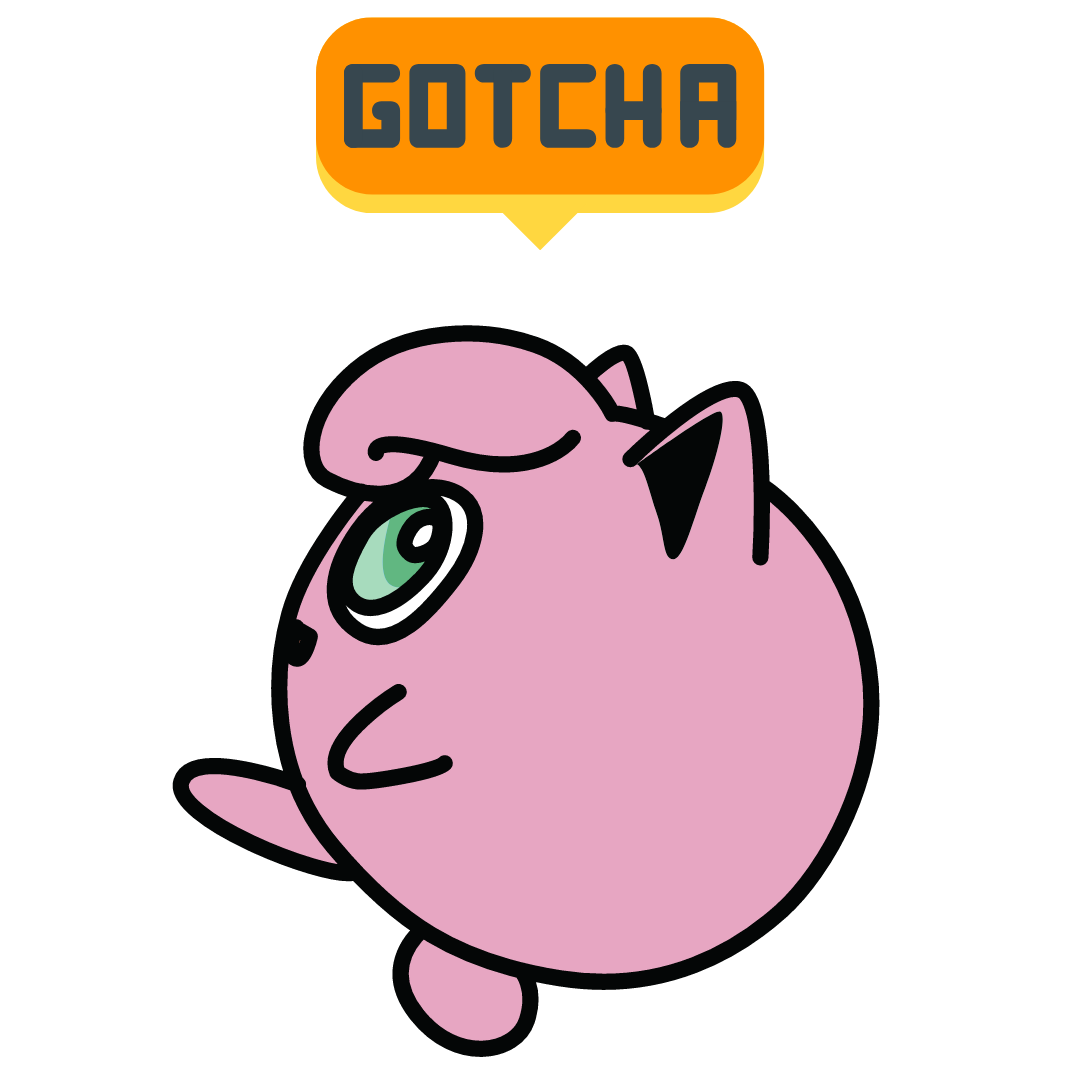
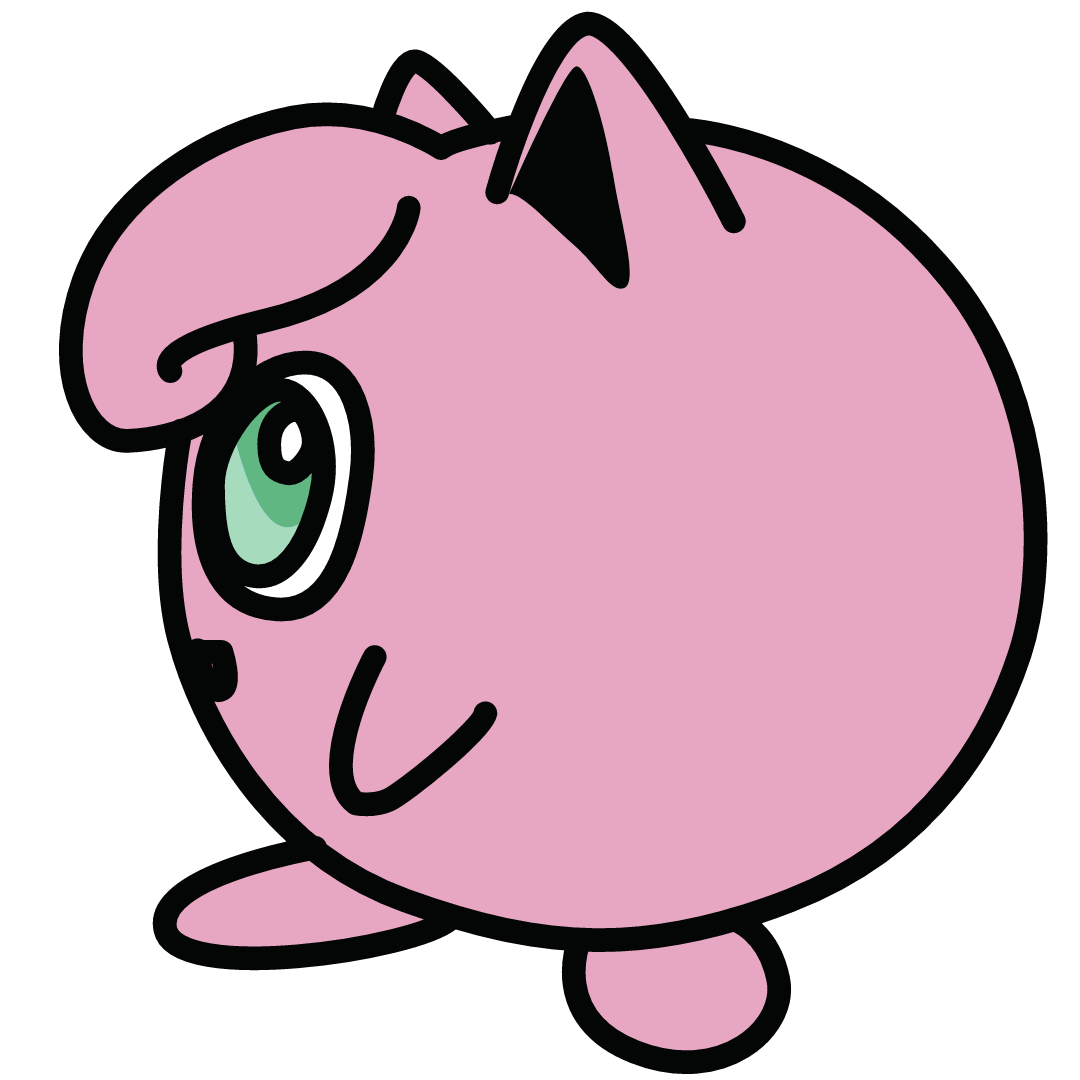
Criada a pagina 404 para usabilidade do usuario

diff --git a/src/pages/Custom404.jsx b/src/pages/Custom404.jsx
@@ -1,0 +1,38 @@
+/* É importante desabilitar essas configurações para o uso do Tailwind */
+/* eslint-disable react/jsx-max-depth */
+/* eslint-disable max-len */
+import React from 'react';
+import { MdCatchingPokemon } from 'react-icons/md';
+import { BsArrowRight } from 'react-icons/bs';
+import * as S from '../styles/404CSS';
+
+export default function Custom404() {
+  return (
+    <S.Main>
+      <S.Container>
+        <S.Images>
+          <S.Img1 src="/gotcha.png" alt="Gotcha" />
+          <S.Img2 src="/404.png" alt="Não encontrado" />
+        </S.Images>
+        <S.Text>
+          <S.Title>
+            <p>4</p>
+            <MdCatchingPokemon />
+            <p>4</p>
+          </S.Title>
+          <S.Descrip1>
+            Oops...Pokemon não encontrado.
+          </S.Descrip1>
+          <S.Descrip2>
+            Você deve ter digitado o endereço errado ou a página foi deslocada.
+          </S.Descrip2>
+          <S.LinkHome to="/">
+            <p><b>Ir para Home</b></p>
+            <BsArrowRight />
+          </S.LinkHome>
+        </S.Text>
+      </S.Container>
+    </S.Main>
+
+  );
+}

diff --git a/src/styles/404CSS.js b/src/styles/404CSS.js
@@ -1,0 +1,73 @@
+import { Link } from "react-router-dom";
+import tw from "tailwind-styled-components"
+
+export const Main = tw.div`
+  flex
+  items-center
+  min-h-screen
+  text-white
+`;
+
+export const Container = tw.div`
+  container
+  flex
+  items-center
+  p-4
+  mx-auto
+`;
+
+export const Images = tw.div`
+  flex
+  flex-col
+  items-center
+  w-4/5
+  p-4
+  md:w-6/12
+`;
+
+export const Img1 = tw.img`
+  w-1/2
+  mt-10
+`;
+
+export const Img2 = tw.img`
+  w-2/3
+  mt-10
+  animate-spin-slow
+`;
+
+export const Text = tw.div`
+  w-full
+  p-16
+  text-center
+  text-gray-700
+  md:w-7/12
+  md:text-left
+`;
+
+export const Title = tw.p`
+  flex
+  mb-10
+  text-6xl
+  font-medium 
+`;
+
+export const Descrip1 = tw.div`
+  mb-4
+  text-xl
+  font-medium
+  md:text-3xl
+`;
+
+export const Descrip2 = tw.div`
+  mb-8
+  text-lg
+`;
+
+export const LinkHome = tw(Link)`
+  flex
+  items-center
+  space-x-1
+  text-lg
+  text-blue-color
+`;

diff --git a/src/App.js b/src/App.js
@@ -19,6 +19,7 @@ export default function App() {
             <Route path="/register" element={ <P.Register /> } />
             <Route path="/profile" element={ <P.Profile /> } />
             <Route path="/cart" element={ <P.ShoppingCart /> } />
+            <Route path="*" element={ <P.Custom404 /> } />
           </Routes>
         </BrowserRouter>
       </PersistGate>

diff --git a/src/pages/index.js b/src/pages/index.js
@@ -4,5 +4,6 @@ import Profile from './Profile';
 import ShoppingCart from './ShoppingCart';
 import ChangePassword from './ChangePassword';
 import Register from './Register';
+import Custom404 from './Custom404';
 
-export { Home, Login, Profile, ShoppingCart, ChangePassword, Register };
+export { Home, Login, Profile, ShoppingCart, Custom404, ChangePassword, Register };

diff --git a/tailwind.config.js b/tailwind.config.js
@@ -3,7 +3,11 @@ module.exports = {
     './src/**/*.{js,jsx,ts,tsx}',
   ],
   theme: {
-    extend: {},
+    extend: {
+      animation: {
+        'spin-slow': 'spin 20s linear infinite',
+      }
+    },
   },
   plugins: [],
 };

diff --git a/src/service/authAPi.js b/src/service/authAPi.js
@@ -47,5 +47,3 @@ export const fetchUpdateUser = (user) => (
     .then((data) => data)
     .catch((error) => error)
 );
-
-export default { fetchRegisterUser };
